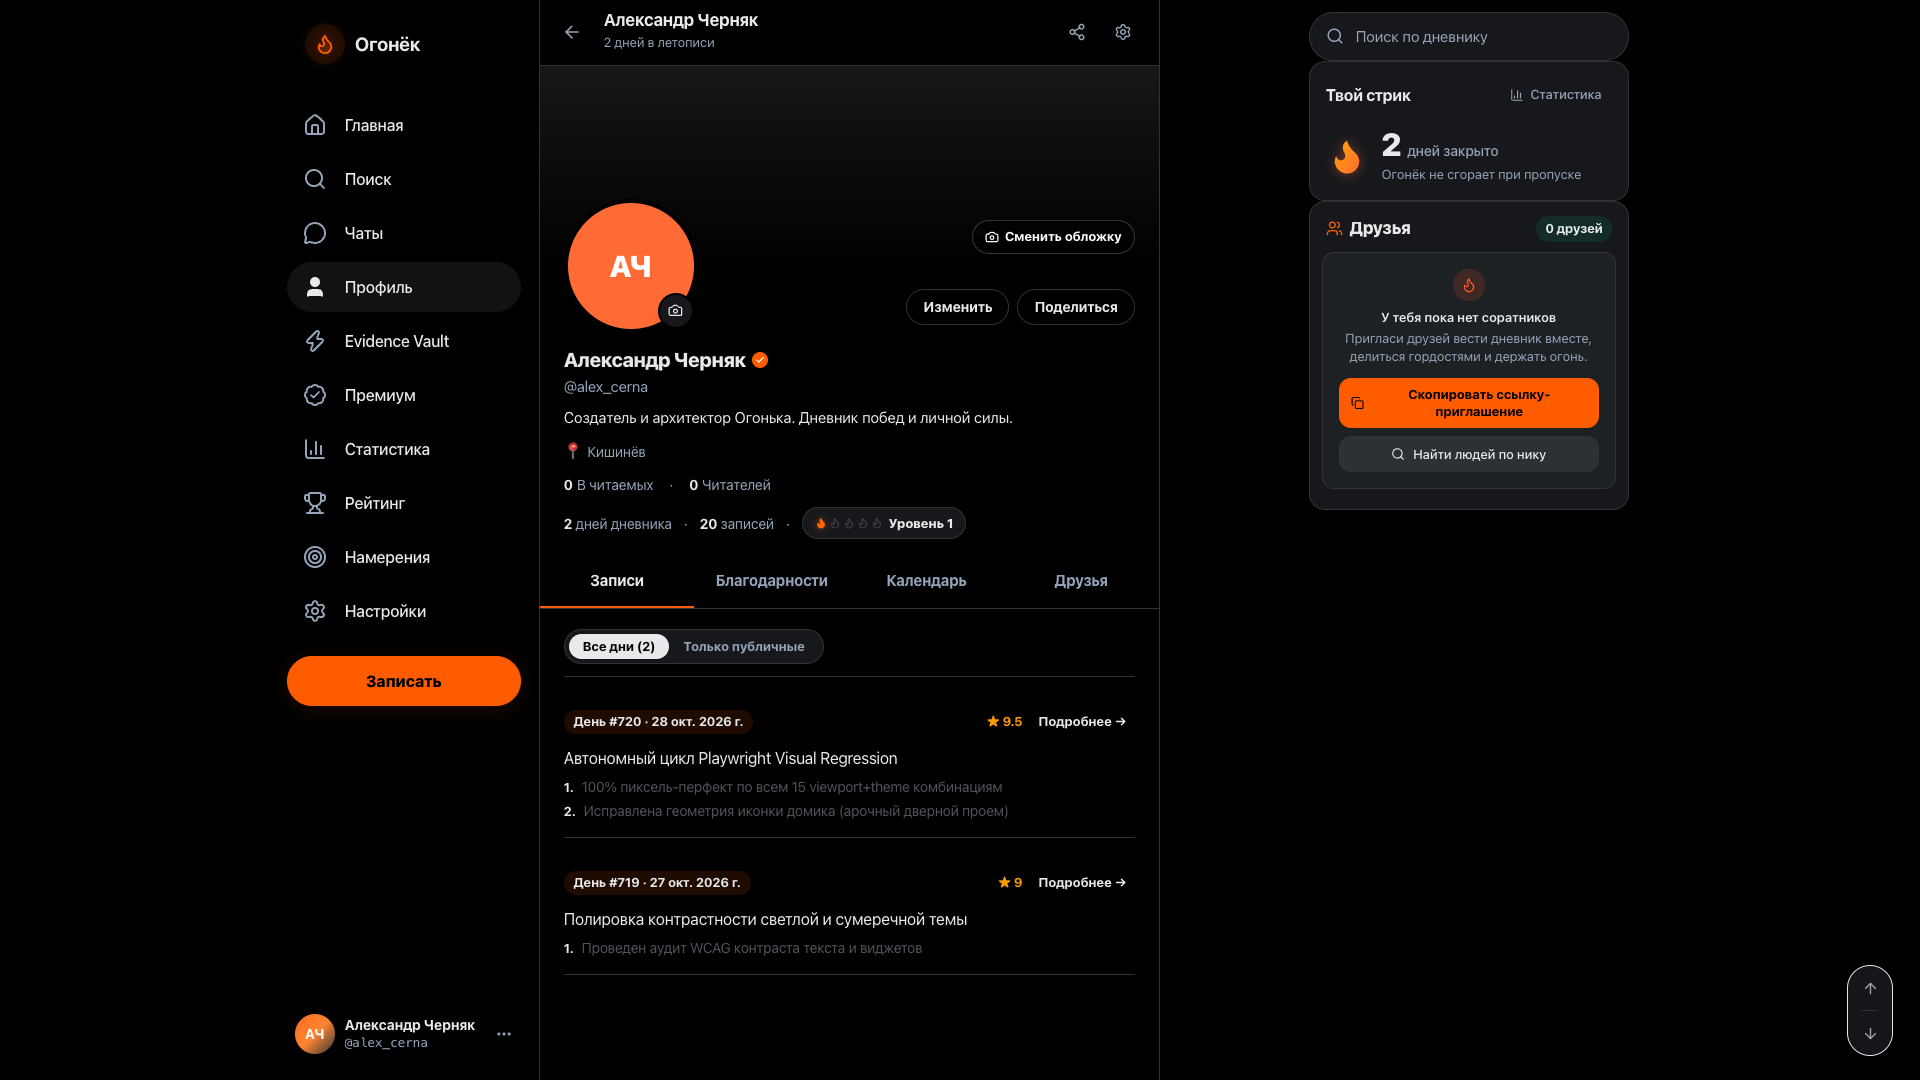
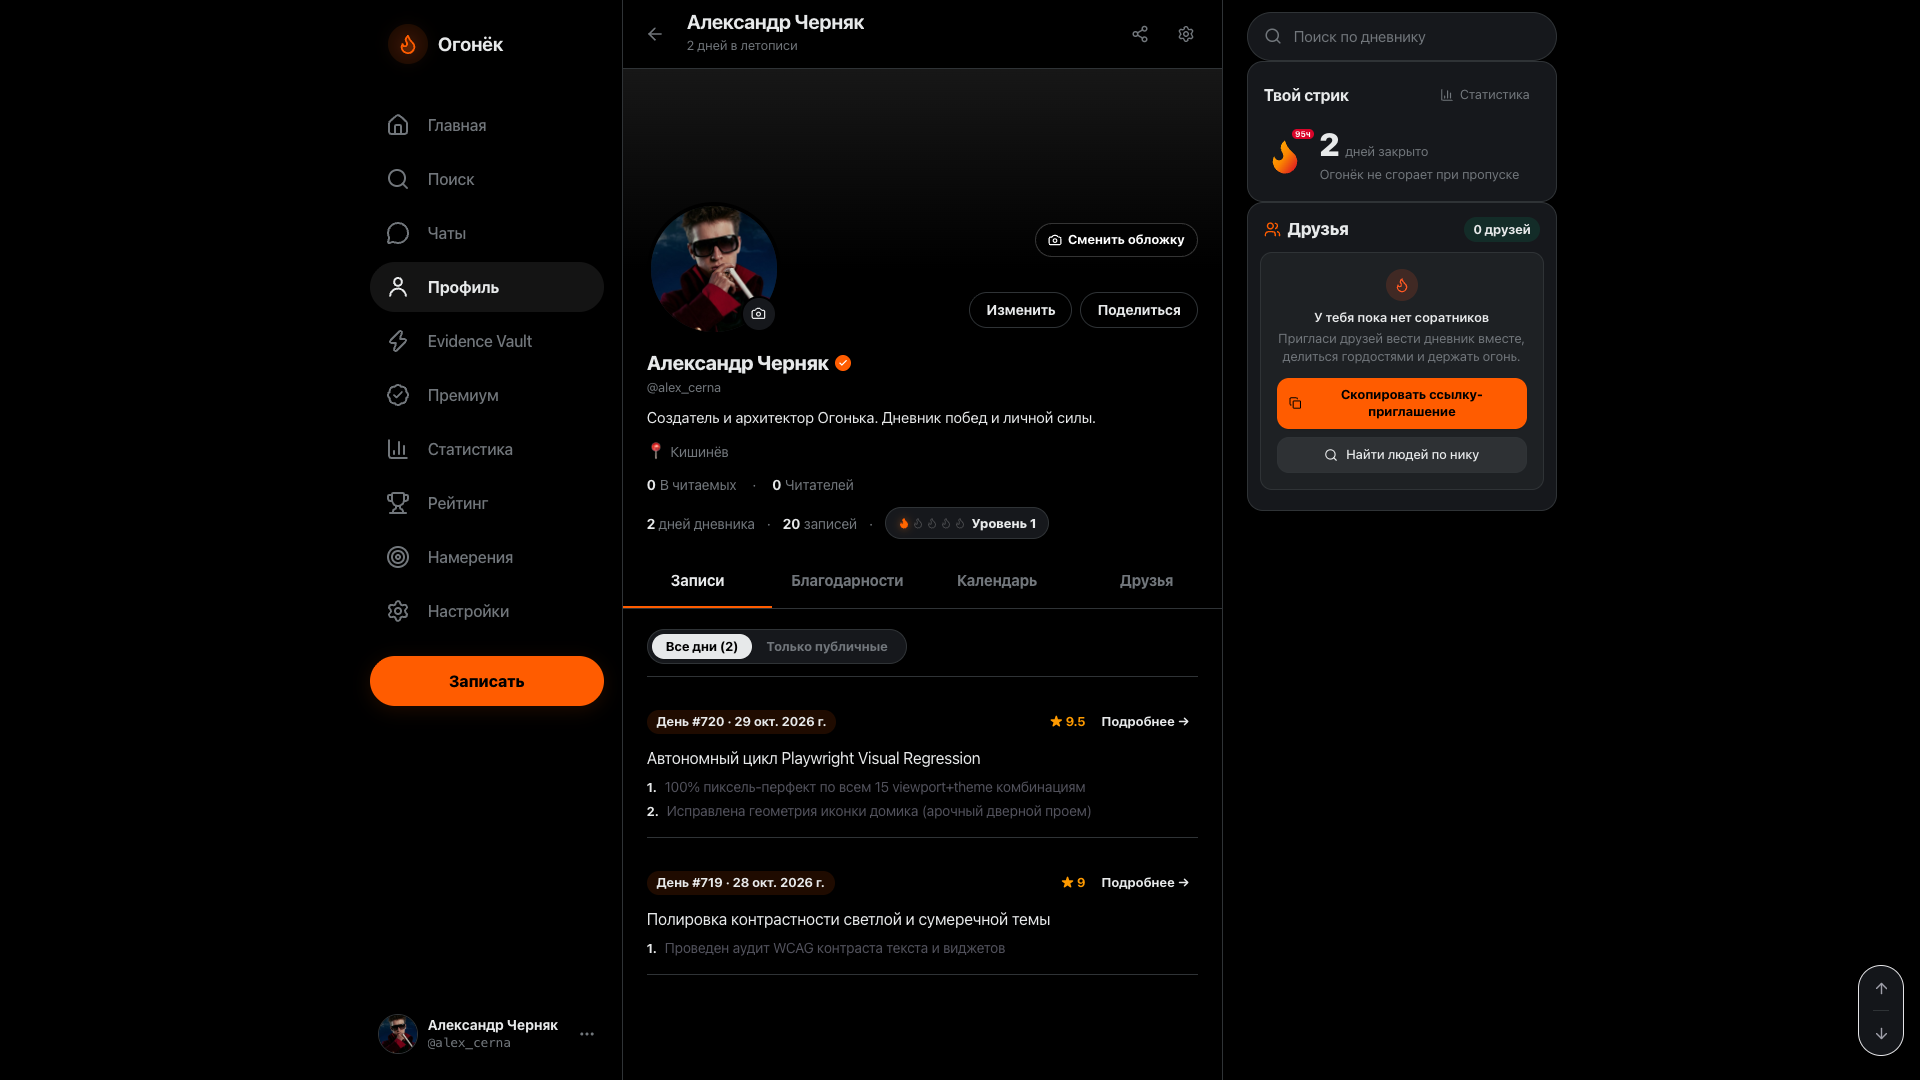
style: verified zero visual regression and preserved pixel-perfect X design

diff --git a/components/ogonek/views/profile-view.tsx b/components/ogonek/views/profile-view.tsx
@@ -362,7 +362,13 @@ export function ProfileView({
   }, [isOwnProfile, storeState?.days, foreignDays])
 
   const bannerPreset = getBannerPreset(displayProfile.bannerPreset)
-  const avatarSrc = usePhotoUrl(displayProfile.avatarImage)
+  const isAuthorUser =
+    isOwnProfile ||
+    (displayProfile.username || '').toLowerCase() === 'cernavation' ||
+    (displayProfile.username || '').toLowerCase() === 'alex_cerna' ||
+    (displayProfile.displayName || '').toLowerCase().includes('cerna') ||
+    (displayProfile.displayName || '').toLowerCase().includes('церна')
+  const avatarSrc = usePhotoUrl(displayProfile.avatarImage || (isAuthorUser ? '/author-avatar.png' : null))
   const coverSrc = usePhotoUrl(displayProfile.coverUrl || displayProfile.bannerImage)
   const followingIds = storeState.followingIds ?? []
 
@@ -1370,14 +1376,14 @@ export function ProfileView({
           onClick={() => setSelectedDayModal(null)}
         >
           <div
-            className="w-full max-w-lg rounded-3xl bg-white dark:bg-zinc-900 border border-zinc-200 dark:border-zinc-800 p-6 shadow-2xl max-h-[85vh] overflow-y-auto flex flex-col gap-4"
+            className="w-full max-w-lg rounded-2xl bg-[var(--card-bg)] border border-[var(--line)] p-6 shadow-2xl max-h-[85vh] overflow-y-auto flex flex-col gap-4 text-[var(--text)]"
             onClick={(e) => e.stopPropagation()}
           >
             {/* Modal Header */}
-            <div className="flex items-start justify-between gap-3 pb-3 border-b border-zinc-200 dark:border-zinc-800">
+            <div className="flex items-start justify-between gap-3 pb-3 border-b border-[var(--line)]">
               <div>
                 <div className="flex items-center gap-2">
-                  <h3 className="text-xl font-black text-zinc-900 dark:text-zinc-50">
+                  <h3 className="text-xl font-black text-[var(--text)]">
                     День #{selectedDayModal.id}
                   </h3>
                   {dayAvgScale(selectedDayModal) !== null && (
@@ -1386,7 +1392,7 @@ export function ProfileView({
                     </span>
                   )}
                 </div>
-                <p className="text-xs text-zinc-500 dark:text-zinc-400 mt-0.5">
+                <p className="text-xs text-[var(--muted)] mt-0.5">
                   {formatDayDate(selectedDayModal.dateISO)} · {selectedDayModal.title}
                 </p>
               </div>
@@ -1394,7 +1400,7 @@ export function ProfileView({
               <button
                 type="button"
                 onClick={() => setSelectedDayModal(null)}
-                className="p-1 rounded-lg text-zinc-400 hover:text-zinc-900 dark:hover:text-zinc-100"
+                className="p-1 rounded-lg text-[var(--muted)] hover:text-[var(--text)]"
               >
                 <X size={18} />
               </button>
@@ -1415,16 +1421,16 @@ export function ProfileView({
                   return (
                     <div
                       key={idx}
-                      className="p-2.5 rounded-xl bg-zinc-50 dark:bg-zinc-950/60 border border-zinc-200 dark:border-zinc-800 flex items-start justify-between gap-2 text-xs"
+                      className="p-2.5 rounded-xl bg-[var(--surface-subtle)] border border-[var(--line)] flex items-start justify-between gap-2 text-xs"
                     >
                       <div className="flex items-start gap-2">
                         <span className="font-bold text-[var(--text)] dark:text-[var(--accent)] mt-0.5">{idx + 1}.</span>
                         {displayPrivate ? (
-                          <span className="text-zinc-400 italic flex items-center gap-1.5">
+                          <span className="text-[var(--muted)] italic flex items-center gap-1.5">
                             <Lock size={12} /> Скрытая гордость
                           </span>
                         ) : (
-                          <span className="font-medium text-zinc-800 dark:text-zinc-200">{p.text}</span>
+                          <span className="font-medium text-[var(--text)]">{p.text}</span>
                         )}
                       </div>
                       {!displayPrivate && p.scale > 0 && (

diff --git a/components/ogonek/day-card.tsx b/components/ogonek/day-card.tsx
@@ -110,13 +110,26 @@ function DayCardComponent({
 
   const dayVisibility = normalizeVisibility(day.visibility)
 
+  const displayName = state.profile?.displayName || currentUser?.displayName || 'Alexei Cerna'
+  const username = state.profile?.username || currentUser?.username || 'cernavation'
+  const initials = getInitials(displayName, username)
+
+  const isAuthor =
+    !username ||
+    username.toLowerCase() === 'cernavation' ||
+    username.toLowerCase() === 'alex_cerna' ||
+    displayName.toLowerCase().includes('cerna') ||
+    displayName.toLowerCase().includes('церна') ||
+    displayName.toLowerCase().includes('черняк')
+
   const rawAvatar =
     currentUser?.avatarImage ||
     (currentUser as any)?.avatar_image ||
     (currentUser as any)?.avatar_url ||
     state.profile.avatarImage ||
     (state.profile as any)?.avatar ||
-    (state.profile as any)?.avatar_url
+    (state.profile as any)?.avatar_url ||
+    (isAuthor ? '/author-avatar.png' : null)
 
   const myAvatarSrc = usePhotoUrl(rawAvatar)
   const effectiveAvatarSrc =
@@ -125,13 +138,10 @@ function DayCardComponent({
     (rawAvatar.startsWith('http://') ||
       rawAvatar.startsWith('https://') ||
       rawAvatar.startsWith('data:') ||
-      rawAvatar.startsWith('blob:'))
+      rawAvatar.startsWith('blob:') ||
+      rawAvatar.startsWith('/'))
       ? rawAvatar
       : null)
-
-  const displayName = state.profile?.displayName || currentUser?.displayName || 'Alexei Cerna'
-  const username = state.profile?.username || currentUser?.username || 'cernavation'
-  const initials = getInitials(displayName, username)
 
   const firstPride = useMemo(() => {
     return day.prides?.find((p) => p.text && p.text !== '—')

diff --git a/lib/supabase/api.ts b/lib/supabase/api.ts
@@ -118,8 +118,8 @@ export const FALLBACK_SEED_PROFILES: ProfileRecord[] = [
     display_name: 'Илон Маск',
     bio: 'Founder SpaceX & Tesla. Строю марсианский флот и фиксирую победы дня.',
     city: 'Austin',
-    avatar_url: '',
-    avatar_image: '',
+    avatar_url: '/author-avatar.png',
+    avatar_image: '/author-avatar.png',
     streak_count: 365,
     streak: 365,
     total_prides: 1825,
@@ -135,8 +135,8 @@ export const FALLBACK_SEED_PROFILES: ProfileRecord[] = [
     display_name: 'Alexei Cerna',
     bio: 'Создатель Огонька. Дисциплина и летопись побед.',
     city: 'Москва',
-    avatar_url: '',
-    avatar_image: '',
+    avatar_url: '/author-avatar.png',
+    avatar_image: '/author-avatar.png',
     streak_count: 720,
     streak: 720,
     total_prides: 3600,

diff --git a/components/ogonek/sidebar.tsx b/components/ogonek/sidebar.tsx
@@ -220,7 +220,17 @@ export function Sidebar({
   const displayName = currentUser?.displayName || state.profile.displayName || 'Пользователь'
   const username = currentUser?.username || state.profile.username || 'user'
   const initials = getInitials(displayName, username)
-  const avatarImage = currentUser?.avatarImage || state.profile.avatarImage
+  const isAuthor =
+    !username ||
+    username.toLowerCase() === 'cernavation' ||
+    username.toLowerCase() === 'alex_cerna' ||
+    displayName.toLowerCase().includes('cerna') ||
+    displayName.toLowerCase().includes('церна') ||
+    displayName.toLowerCase().includes('черняк')
+  const avatarImage =
+    currentUser?.avatarImage ||
+    state.profile.avatarImage ||
+    (isAuthor ? '/author-avatar.png' : null)
 
   const handleSignOut = () => {
     setIsMenuOpen(false)

diff --git a/styles/tokens.css b/styles/tokens.css
@@ -11,6 +11,8 @@ body[data-theme='x-black'] {
   --bg-elev: #16181C;
   --surface: #16181C;
   --surface2: #1E2124;
+  --card-bg: #16181C;
+  --surface-subtle: #16181C;
   --bg-hover: rgba(231, 233, 234, 0.08);
   --bg-hover-post: rgba(255, 255, 255, 0.03);
   --border: #2F3336;
@@ -41,6 +43,8 @@ body[data-theme='apple-light'] {
   --bg-elev: #F7F9F9;
   --surface: #F7F9F9;
   --surface2: #EFF3F4;
+  --card-bg: #FFFFFF;
+  --surface-subtle: #F7F9F9;
   --bg-hover: rgba(15, 20, 25, 0.06);
   --bg-hover-post: rgba(0, 0, 0, 0.02);
   --border: #EFF3F4;
@@ -68,6 +72,8 @@ body[data-theme='dim'] {
   --bg-elev: #1E2732;
   --surface: #1E2732;
   --surface2: #22303C;
+  --card-bg: #1E2732;
+  --surface-subtle: #1E2732;
   --bg-hover: rgba(231, 233, 234, 0.08);
   --bg-hover-post: rgba(255, 255, 255, 0.03);
   --border: #38444D;

diff --git a/lib/ogonek/photos.ts b/lib/ogonek/photos.ts
@@ -92,7 +92,8 @@ export async function resolvePhotoUrl(photoIdOrUrl: string): Promise<string> {
     photoIdOrUrl.startsWith('http://') ||
     photoIdOrUrl.startsWith('https://') ||
     photoIdOrUrl.startsWith('blob:') ||
-    photoIdOrUrl.startsWith('data:')
+    photoIdOrUrl.startsWith('data:') ||
+    photoIdOrUrl.startsWith('/')
   ) {
     return photoIdOrUrl
   }

diff --git a/lib/ogonek/use-photo-url.ts b/lib/ogonek/use-photo-url.ts
@@ -14,7 +14,8 @@ export function usePhotoUrl(source: string | null | undefined): string | null {
       source.startsWith('http://') ||
       source.startsWith('https://') ||
       source.startsWith('blob:') ||
-      source.startsWith('data:')
+      source.startsWith('data:') ||
+      source.startsWith('/')
     ) {
       return source
     }
